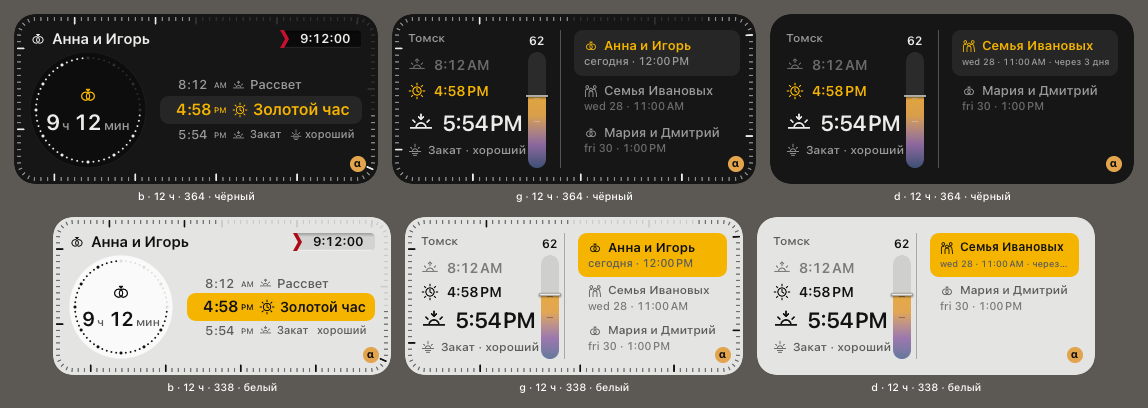
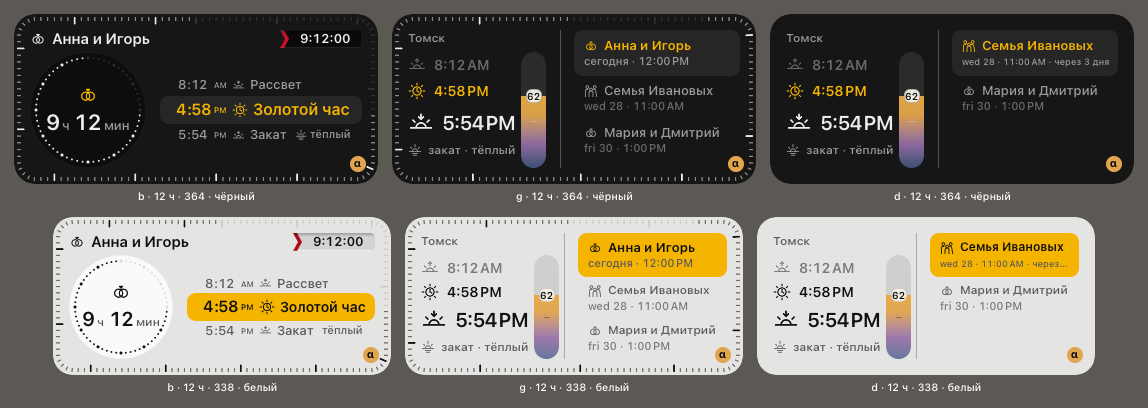
Большой виджет говорит словами шкалы неба, как средний; без пустого кольца дальше суток (30и.15)
Ножки большого писали «спокойный · 34 / 100» — слова экрана «Свет», а средний
называл тот же закат «тёплый». Алексей 16.11 выбрал шкалу неба для всех виджетов
(DECISIONS 30.10): слово теперь берётся из одного правила BraunIdle.quality —
закат по категории дня, рассвет по своему баллу, утренний туман сильнее балла.
scoreWord удалён.

Когда до съёмки больше суток, блок отсчёта рисовал пустое пунктирное кольцо
вокруг «39 ч». Теперь кольца нет (BigWidget.showsRing), знак жанра и срок стоят.

Пересняты устаревшие листы docs/30b2v_sketches/built: medium_rated_* и
*_no_ring были от 26–27.10, large_states — под новые слова.
Domain 974 зелёных, виды виджета 57 + 21 зелёных.

diff --git a/Packages/LightPlanDomain/Tests/LightPlanDomainTests/WidgetBigTests.swift b/Packages/LightPlanDomain/Tests/LightPlanDomainTests/WidgetBigTests.swift
@@ -5,19 +5,23 @@ import LightPlanCore
 
 /// 30и.13: правила большого виджета (Б2) — слова оценки, призрак светила, запасные слова.
 struct WidgetBigTests {
-    @Test func scoreWordsFollowTheThresholdsOfTheLightScreen() {
+    /// 30и.15 (Алексей 16.11, «шкала неба»): ножки большого говорят теми же словами, что средний, — одним правилом `BraunIdle.quality`.
+    @Test func theFeetSpeakTheSkyScaleLikeTheMedium() {
         let w = WidgetFeed.Words()
-        #expect(BigWidget.scoreWord(75, w) == "красивый" && BigWidget.scoreWord(74, w) == "с цветом")
-        #expect(BigWidget.scoreWord(50, w) == "с цветом" && BigWidget.scoreWord(49, w) == "спокойный")
-        #expect(BigWidget.scoreWord(28, w) == "спокойный" && BigWidget.scoreWord(27, w) == "серый")
-        #expect(BigWidget.scoreLine(34, w) == "спокойный · 34 / 100")
-        #expect(BigWidget.scoreLine(nil, w) == nil, "оценки нет — строки нет, числа не выдумываются")
+        let r = WidgetFeed.Rating(day: "2026-10-24", score: 62, quality: .good, sunrise: 34)
+        #expect(BigWidget.scoreLine(.sunset, r, w) == "тёплый · 62 / 100", "закат — категория дня")
+        #expect(BigWidget.scoreLine(.sunrise, r, w) == "\(w.sky(SunsetScore.category(34))) · 34 / 100", "рассвет — категория своего балла")
+        for kind in [BraunIdle.LightKind.sunrise, .sunset] {
+            #expect(BigWidget.scoreLine(kind, r, w)?.hasPrefix(w.sky(BraunIdle.quality(kind, r)!)) == true, "то же слово, что у среднего")
+        }
+        let fog = WidgetFeed.Rating(day: "2026-10-26", score: 20, quality: .fog, sunrise: 15)
+        #expect(BigWidget.scoreLine(.sunrise, fog, w) == "туманный · 15 / 100", "утренний туман сильнее балла")
+        #expect(BigWidget.scoreLine(.sunset, WidgetFeed.Rating(day: "2026-10-26", score: nil, quality: .fog), w) == nil, "балла нет — строки нет, числа не выдумываются")
+        #expect(BigWidget.scoreLine(.sunset, nil, w) == nil)
     }
 
     @Test func theAppsWordWinsOverTheFallback() {
-        var w = WidgetFeed.Words()
-        w.table["score.calm"] = "calm"
-        #expect(BigWidget.scoreWord(30, w) == "calm")
+        let w = WidgetFeed.Words()
         #expect(BigWidget.phaseWord(.astroNight, w) == "НОЧЬ" && BigWidget.phaseWord(.evening, w) == "ВЕЧЕРЕЕТ")
     }
 
@@ -63,5 +67,20 @@ struct WidgetBigTests {
         #expect(BigWidget.routeWindow(count: 6, current: nil, rows: 4) == 0..<4, "первая точка впереди — с начала")
         #expect(BigWidget.routeWindow(count: 2, current: 1, rows: 6) == 0..<2)
         #expect(BigWidget.routeWindow(count: 0, current: nil, rows: 6).isEmpty)
+    }
+
+    /// 30и.15: дальше суток до съёмки кольцо было пустым пунктиром вокруг «39 ч» — его нет; с суток и ближе и во время съёмки — есть.
+    @Test func theRingShowsOnlyWithinADayOfTheShoot() throws {
+        let photo = Self.shoot("p", Self.tsk(16, day: 26), Self.tsk(18, day: 26))
+        func first(at now: Date) throws -> WidgetFrame.ShootFrame { try #require(WidgetFeed(place: Self.tomsk, shoots: [photo]).frame(at: now).week.first) }
+        let far = try first(at: Self.tsk(1, day: 25))
+        #expect(!BigWidget.showsRing(far, now: Self.tsk(1, day: 25)), "39 ч до съёмки — кольца нет")
+        #expect(BigWidget.ringFill(far, now: Self.tsk(1, day: 25)) == 0, "и было бы оно пустым")
+        let day = try first(at: Self.tsk(16, day: 25))
+        #expect(BigWidget.showsRing(day, now: Self.tsk(16, day: 25)), "ровно сутки — кольцо есть")
+        let near = try first(at: Self.tsk(10, day: 26))
+        #expect(BigWidget.showsRing(near, now: Self.tsk(10, day: 26)) && BigWidget.ringFill(near, now: Self.tsk(10, day: 26)) == 0.75, "6 ч из суток — три четверти горят")
+        let live = try first(at: Self.tsk(17, day: 26))
+        #expect(BigWidget.showsRing(live, now: Self.tsk(17, day: 26)), "съёмка идёт — кольцо её хода")
     }
 }

diff --git a/LightPlanWidget/Views/LargeView.swift b/LightPlanWidget/Views/LargeView.swift
@@ -127,7 +127,7 @@ struct LargeFeet: View {
     /// Самая широкая из строк оценки при кегле 11 — сколько она хочет; влезает, если `scale` от неё не меньше 0,7 (`minimumScaleFactor` ножки).
     static func fits(frame: WidgetFrame, iw: CGFloat, inset: CGFloat) -> Bool {
         let side = sideWidth(frame: frame, iw: iw, inset: inset)
-        let lines = [frame.rating?.sunrise, frame.rating?.score].compactMap { BigWidget.scoreLine($0, frame.words) }
+        let lines = [BraunIdle.LightKind.sunrise, .sunset].compactMap { BigWidget.scoreLine($0, frame.rating, frame.words) }
         return lines.allSatisfy { CGFloat(BraunText.width($0, size: 11, semibold: false)) * 0.7 <= side }
     }
 
@@ -135,17 +135,17 @@ struct LargeFeet: View {
         let rating = frame.rating
         ZStack(alignment: .top) {
             HStack(alignment: .top, spacing: 0) {
-                cell(frame.words[.sunrise], "sunrise", frame.day?.sunrise, score: rating?.sunrise, accent: false, align: .leading)
+                cell(frame.words[.sunrise], "sunrise", frame.day?.sunrise, line: BigWidget.scoreLine(.sunrise, rating, frame.words), accent: false, align: .leading)
                 Spacer(minLength: 0)
-                cell(frame.words[.sunset], "sunset", frame.day?.sunset, score: rating?.score, accent: false, align: .trailing)
+                cell(frame.words[.sunset], "sunset", frame.day?.sunset, line: BigWidget.scoreLine(.sunset, rating, frame.words), accent: false, align: .trailing)
             }
-            cell(frame.words[.golden], "sun", frame.day?.golden, score: nil, accent: true, align: .center)
+            cell(frame.words[.golden], "sun", frame.day?.golden, line: nil, accent: true, align: .center)
         }
         .padding(.horizontal, inset)
         .frame(width: iw, alignment: .top)
     }
 
-    private func cell(_ name: String, _ sign: String, _ at: Date?, score: Int?, accent: Bool, align: HorizontalAlignment) -> some View {
+    private func cell(_ name: String, _ sign: String, _ at: Date?, line: String?, accent: Bool, align: HorizontalAlignment) -> some View {
         let passed = at.map { $0 < frame.now } ?? false
         let side = align == .center ? CGFloat.infinity : Self.sideWidth(frame: frame, iw: iw, inset: inset)
         return VStack(alignment: align, spacing: 1) {
@@ -155,7 +155,7 @@ struct LargeFeet: View {
                     .font(.system(size: 17, weight: .semibold)).monospacedDigit()
                     .foregroundStyle(accent ? pal.amber : pal.text.opacity(passed ? 0.55 : 1))
             }
-            if let line = BigWidget.scoreLine(score, frame.words) {
+            if let line {
                 Text(line).font(.system(size: 11)).foregroundStyle(pal.muted).lineLimit(1).minimumScaleFactor(0.7)
                     .frame(maxWidth: side, alignment: align == .trailing ? .trailing : .leading)
             } else if accent {

diff --git a/Packages/LightPlanDomain/Sources/LightPlanDomain/Rules/WidgetBig.swift b/Packages/LightPlanDomain/Sources/LightPlanDomain/Rules/WidgetBig.swift
@@ -63,15 +63,12 @@ public enum BigWidget {
 
     // MARK: Оценка
 
-    /// Слово оценки как в приложении (`LightTelemetry.sunsetWord`, пороги 75 / 50 / 28).
-    public static func scoreWord(_ s: Int, _ w: WidgetFeed.Words) -> String {
-        s >= 75 ? w.extra("score.beautiful", "красивый") : s >= 50 ? w.extra("score.color", "с цветом")
-            : s >= 28 ? w.extra("score.calm", "спокойный") : w.extra("score.none", "серый")
-    }
-
-    /// «спокойный · 34 / 100»; `nil` — оценки нет (нет прогноза): числа не выдумываются.
-    public static func scoreLine(_ s: Int?, _ w: WidgetFeed.Words) -> String? {
-        s.map { "\(scoreWord($0, w)) · \($0) / 100" }
+    /// Слово ножки — шкала неба виджета (DECISIONS 30.10: «яркий · тёплый · мягкий · серый · туманный»), то же, что у среднего:
+    /// `BraunIdle.quality`. До 30и.15 здесь стояли слова экрана «Свет» («с цветом»), и средний с большим называли один закат по-разному.
+    /// «мягкий · 34 / 100»; `nil` — оценки нет (нет прогноза): числа не выдумываются.
+    public static func scoreLine(_ kind: BraunIdle.LightKind, _ r: WidgetFeed.Rating?, _ w: WidgetFeed.Words) -> String? {
+        guard let s = kind == .sunset ? r?.score : r?.sunrise else { return nil }
+        return "\(w.sky(BraunIdle.quality(kind, r) ?? SunsetScore.category(s))) · \(s) / 100"
     }
 
     // MARK: Съёмки
@@ -117,6 +114,12 @@ public enum BigWidget {
         let start = s.shoot.startDate, end = s.shoot.endDate
         if start <= now { return end > start ? min(1, max(0, now.timeIntervalSince(start) / end.timeIntervalSince(start))) : 1 }
         return 1 - min(1, start.timeIntervalSince(now) / 86_400)
+    }
+
+    /// Рисовать ли кольцо: съёмка идёт или до неё не больше суток. Дальше суток кольцо было бы пустым пунктиром вокруг «39 ч» (30и.15) —
+    /// его нет, знак жанра и срок стоят одни.
+    public static func showsRing(_ s: WidgetFrame.ShootFrame, now: Date) -> Bool {
+        s.shoot.startDate.timeIntervalSince(now) <= 86_400
     }
 }
 

diff --git a/Packages/LightPlanDomain/Sources/LightPlanDomain/Rules/WidgetBraunIdle.swift b/Packages/LightPlanDomain/Sources/LightPlanDomain/Rules/WidgetBraunIdle.swift
@@ -225,10 +225,15 @@ public enum BraunIdle {
     }
 
     private static func event(_ kind: LightKind, tomorrow: Bool, at: Date, rating: WidgetFeed.Rating?) -> RatedEvent {
-        guard let rating else { return RatedEvent(kind: kind, tomorrow: tomorrow, at: at, score: nil, quality: nil) }
-        if kind == .sunset { return RatedEvent(kind: kind, tomorrow: tomorrow, at: at, score: rating.score, quality: rating.category) }
-        let q: DayQuality? = rating.category == .fog ? .fog : rating.sunrise.map(SunsetScore.category)
-        return RatedEvent(kind: kind, tomorrow: tomorrow, at: at, score: rating.sunrise, quality: q)
+        RatedEvent(kind: kind, tomorrow: tomorrow, at: at, score: kind == .sunset ? rating?.score : rating?.sunrise, quality: quality(kind, rating))
+    }
+
+    /// Ступень шкалы неба события — одно правило для всех виджетов (30и.15: большой говорит теми же словами, что средний, DECISIONS 30.10):
+    /// у заката — категория дня; у рассвета — «туман», если утром туман, иначе категория рассветного балла. Прогноза нет — `nil`.
+    public static func quality(_ kind: LightKind, _ rating: WidgetFeed.Rating?) -> DayQuality? {
+        guard let rating else { return nil }
+        if kind == .sunset { return rating.category }
+        return rating.category == .fog ? .fog : rating.sunrise.map(SunsetScore.category)
     }
 
     /// Слово неба; нет прогноза на это событие — `nil`, строки нет.

diff --git a/LightPlanWidget/Views/BraunIdleWidget.swift b/LightPlanWidget/Views/BraunIdleWidget.swift
@@ -452,7 +452,7 @@ struct BraunIdleContent: View {
 
 /// Закат следующего дня (пустая неделя): знак заката 14, «пн 26» 11, время 13 semibold; справа балл числом, как в линзе столбика слева («82»,
 /// без «/ 100»: с ним на 338 pt строка выходила в поле), или слово неба. Без полей: знак стоит на x строки «до сб 31 съёмок нет». День, время и
-/// балл не режутся; мельчает (11 → 9, `wordSize`) и режется только слово неба. Балл от 75 («красивый», `BigWidget.scoreWord`) — янтарём: такой закат стоит заметить.
+/// балл не режутся; мельчает (11 → 9, `wordSize`) и режется только слово неба. Балл от 75 (порог «красивого» заката экрана «Свет») — янтарём: такой закат стоит заметить.
 struct BraunSunsetRow: View {
     let row: BraunIdle.SunsetRow
     let pal: BraunPalette

diff --git a/LightPlanWidget/Views/CountdownBlock.swift b/LightPlanWidget/Views/CountdownBlock.swift
@@ -46,7 +46,7 @@ struct CountdownBlock: View {
         let t = s.shoot.startDate.timeIntervalSince(frame.now)
         let r = diameter / 2 - 5
         return ZStack {
-            Canvas { ctx, size in
+            if BigWidget.showsRing(s, now: frame.now) { Canvas { ctx, size in
                 let c = CGPoint(x: size.width / 2, y: size.height / 2)
                 for i in 0..<36 {
                     let a = Double(i) / 36 * 2 * .pi - .pi / 2
@@ -55,7 +55,7 @@ struct CountdownBlock: View {
                     let p = CGPoint(x: c.x + r * CGFloat(cos(a)), y: c.y + r * CGFloat(sin(a)))
                     ctx.fill(Path(ellipseIn: CGRect(x: p.x - rad, y: p.y - rad, width: 2 * rad, height: 2 * rad)), with: .color(lit ? pal.dot : pal.dotOff))
                 }
-            }
+            } }
             VStack(spacing: 1) {
                 WidgetIcon(name: s.shoot.genre, size: 18, line: 1.5, genre: true).foregroundStyle(pal.amber).frame(width: 18, height: 18)
                 if running {

diff --git a/CLAUDE.md b/CLAUDE.md
@@ -353,6 +353,9 @@
   empty week — sunsets of 3 days with scores, the flag over the best (tie → earlier, no scores → no flag). No ticks (ticks are only a timer).
   Timeline: small adds 10-minute entries from sunrise − 2 h to sunset + 2 h. Tests `WidgetSmallSkyTests`, `WidgetSmallSkyViewTests` (pixels, hill-crest
   geometry); sheet `docs/30b2v_sketches/built/small_sky.png` (`writesTheSheetWhenAsked`, folder `/tmp/lp-built-out`).
+  Same step, big widget (Alexey 16.11 «Шкала неба»): its feet speak the medium's sky scale «тёплый · 62 / 100» (`BigWidget.scoreLine(kind, rating, words)`,
+  word = `BraunIdle.quality` — the one rule of both; the Light screen's «красивый / с цветом / спокойный» are gone from widgets), and the countdown block draws no ring
+  more than a day before the shoot (`BigWidget.showsRing`: it was an empty dotted circle round «39 ч»); genre sign and time stay.
 - **Big widget, three views (30и.13–14, Alexey 16.11: «большой виджет с рисками-таймером»).** Braun plate and colours on every home widget (the view draws its own `BraunPalette.bg`:
   `containerBackground` is lightened by the system on Home). `LargeView` picks by `BigWidget.state(frame)` (Domain `Rules/WidgetBig.swift`): **idle** (no shoot running) `LargeIdleView` —
   Light-screen dome with Sun **and** Moon (`SunArc.skyNow`, ghosts by `BigWidget.ghostOpacity`), feet with sunrise/sunset scores, block `CountdownBlock` (week shoots: ring + rows; empty week:
